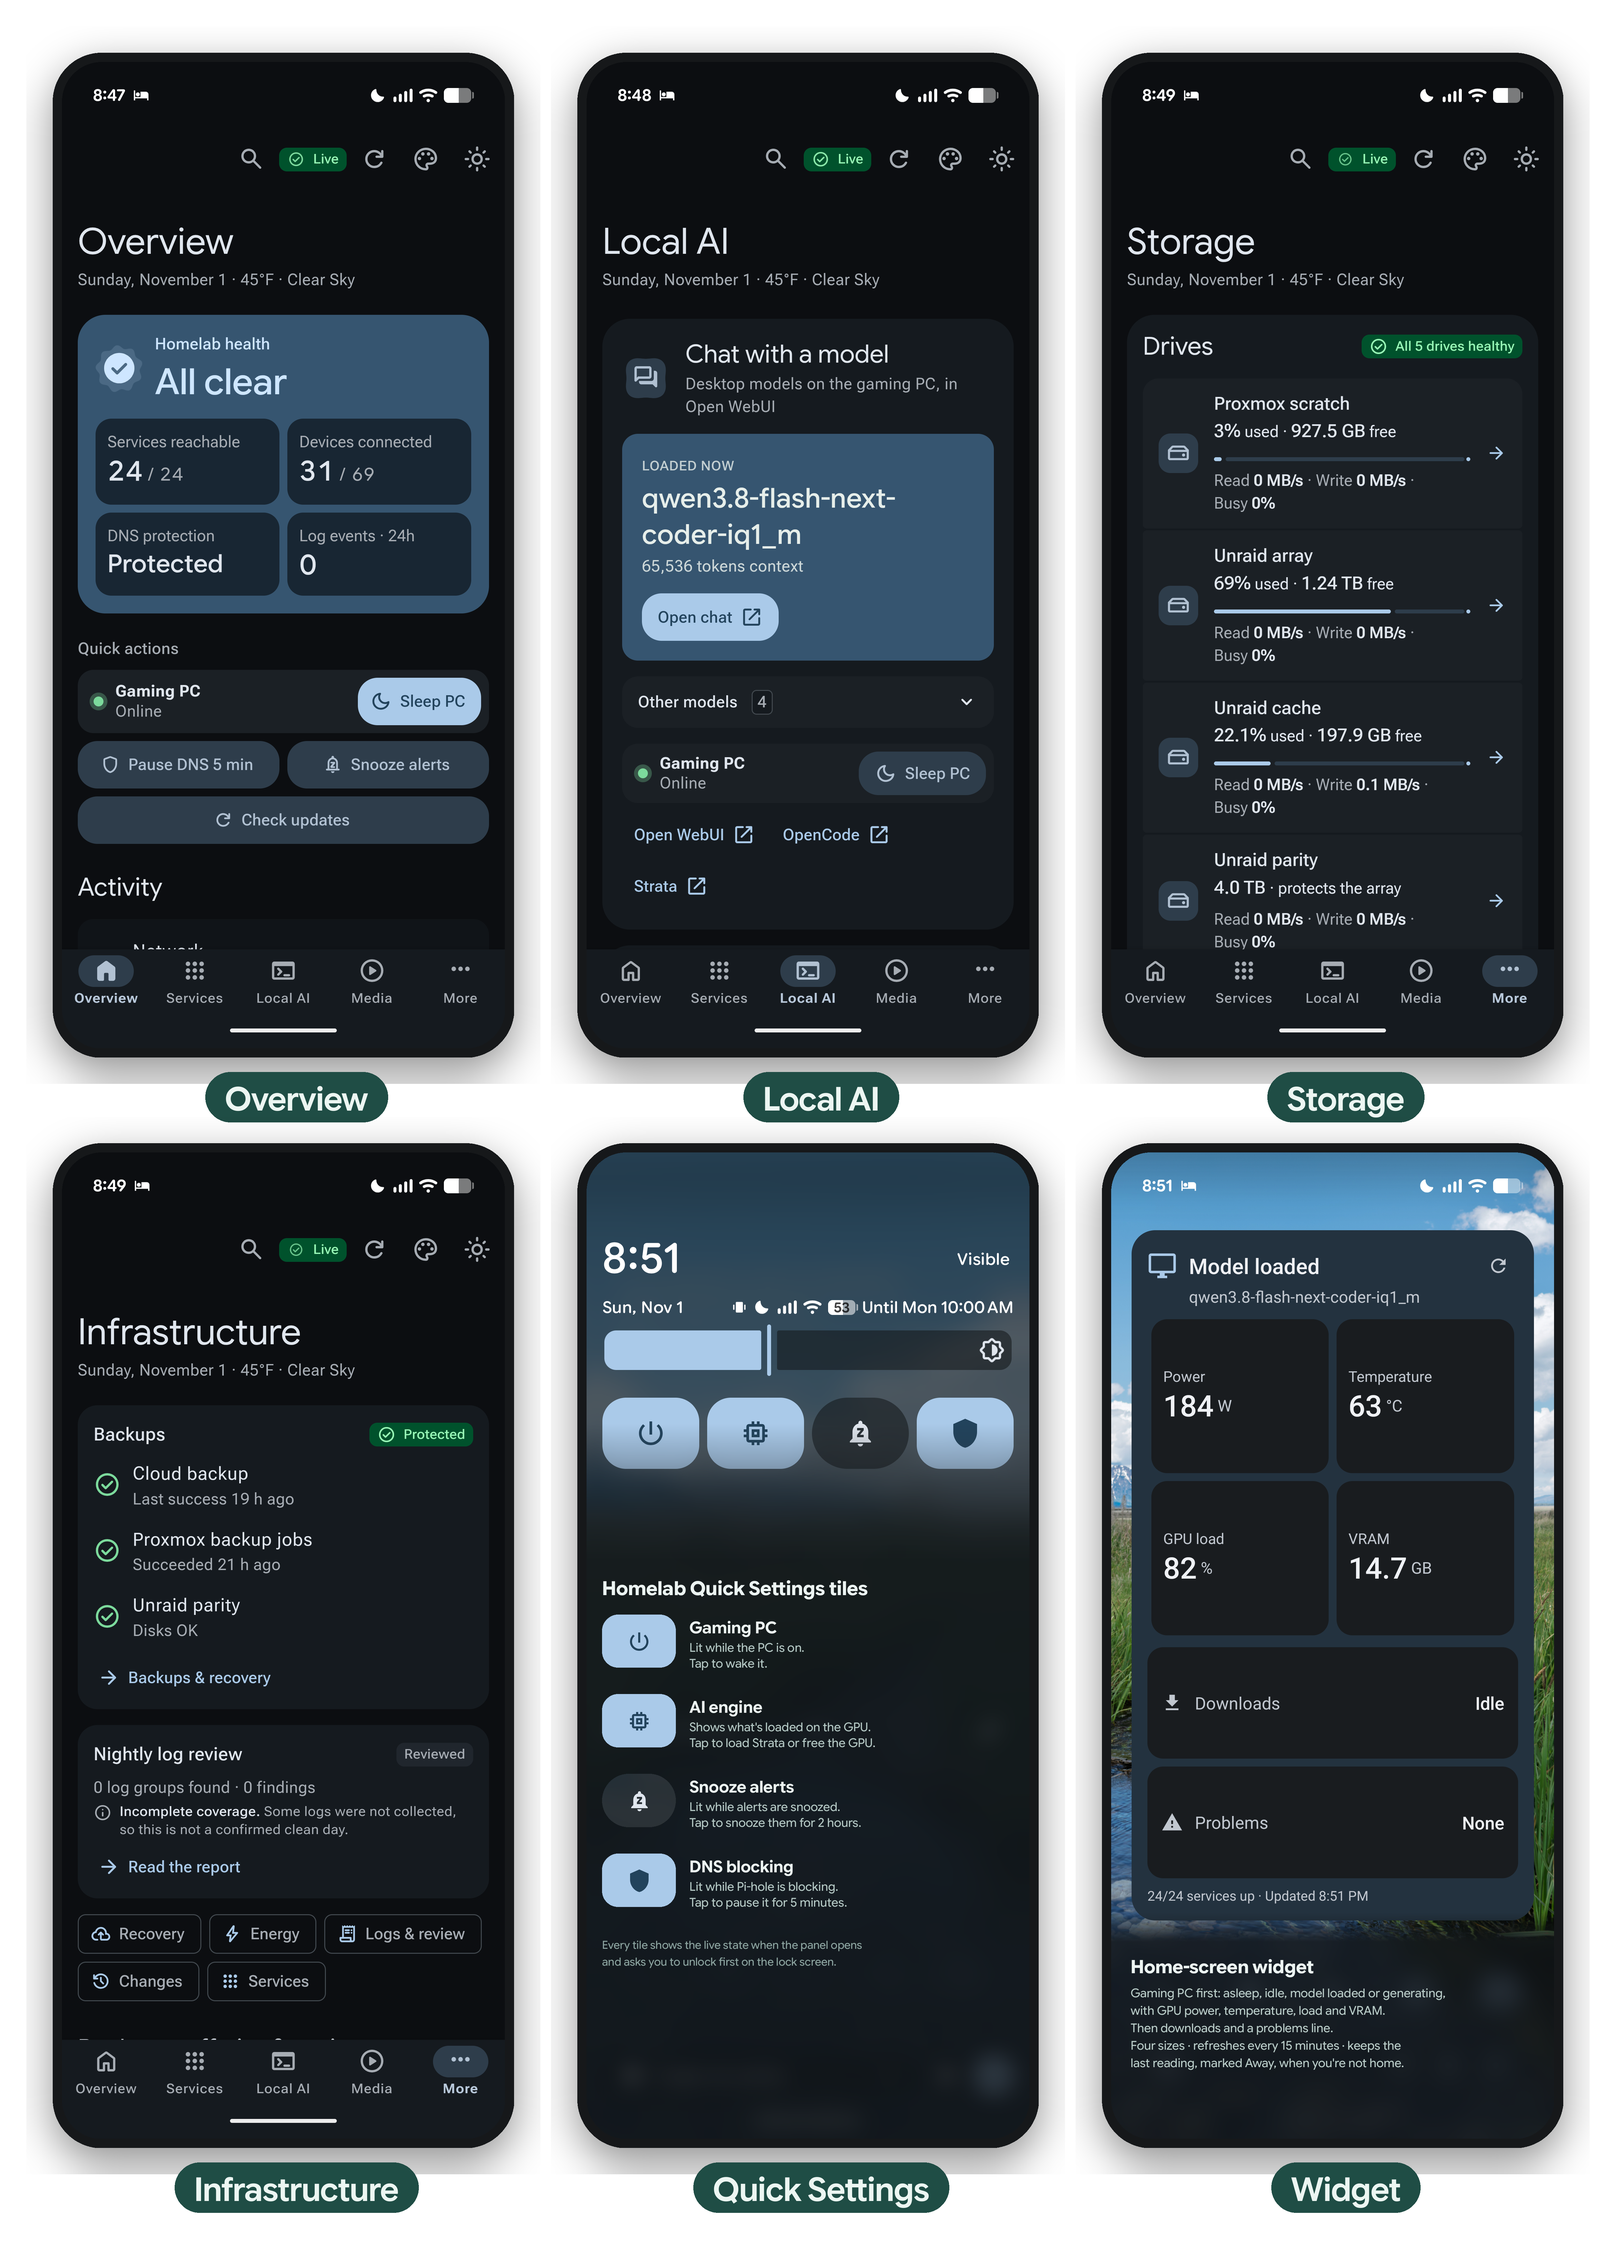
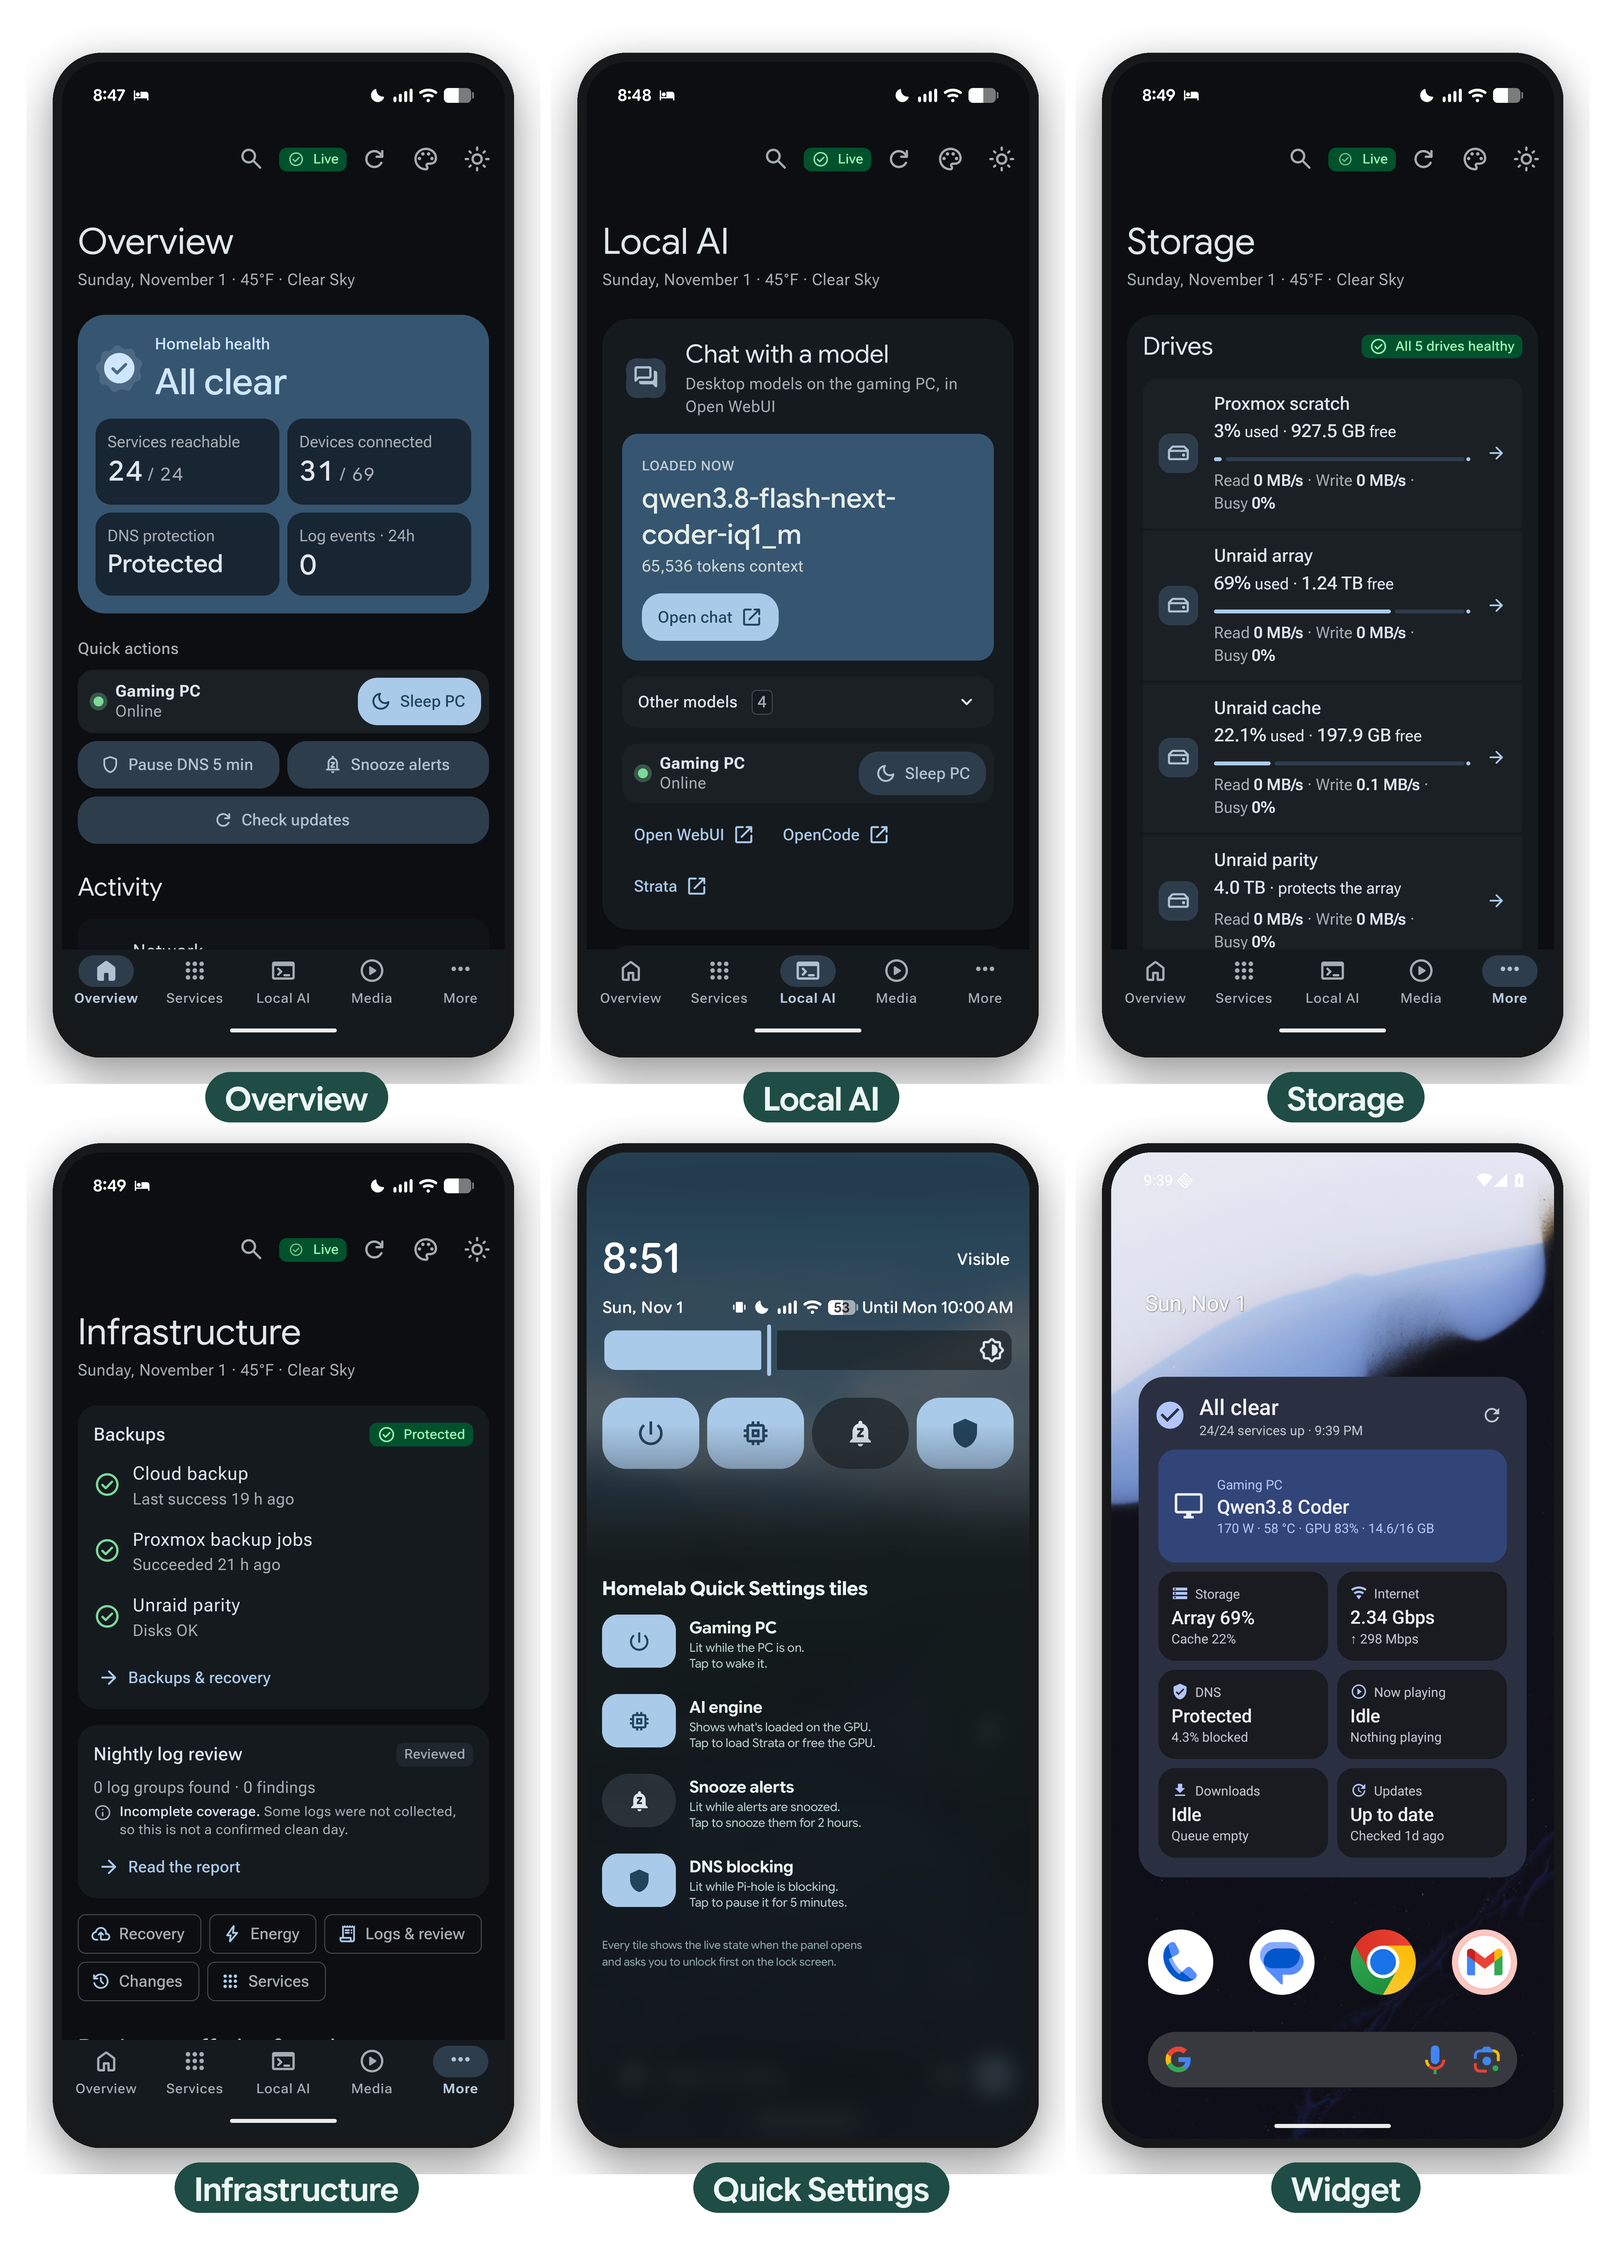
feat(android): v1.10 widget names Qwen3.8 Flash / Coder; gallery shows the new widget

Changed region(s): [[0.6864, 0.4994, 0.9672, 0.9364]]

diff --git a/android/app/src/main/java/lan/homelab/app/ModelNames.java b/android/app/src/main/java/lan/homelab/app/ModelNames.java
@@ -14,6 +14,8 @@ final class ModelNames {
             case "qwen3.8-27b-uncensored": return "Qwen3.8 27B Uncensored";
             case "gemma-4-26b-a4b": return "Gemma 4 26B MoE";
             case "qwen3.6-35b-moe": return "Qwen3.6 35B MoE";
+            case "qwen3.8-flash-next-iq3_xxs": return "Strata · Qwen3.8 Flash IQ3_XXS";
+            case "qwen3.8-flash-next-coder-iq1_m": return "Strata · Qwen3.8 Coder IQ1_M";
             default: break;
         }
         // Strata: swift-1.5-iq3_xxs -> "Strata · Swift 1.5 IQ3_XXS"
@@ -24,5 +26,5 @@ final class ModelNames {
         return id;
     }
 
-    static boolean isStrata(String id) { return id != null && id.startsWith("swift-"); }
+    static boolean isStrata(String id) { return id != null && (id.startsWith("swift-") || id.startsWith("qwen3.8-flash-next")); }
 }

diff --git a/CHANGELOG.md b/CHANGELOG.md
@@ -7,6 +7,7 @@ All notable changes to the Homelab Android app. Versions match `versionName` in 
 ### Changed
 - **Status-first home-screen widget.** The header says *All clear* or names the problems. A Gaming PC card shows the loaded model or state, with GPU power, temperature, load and VRAM only while it is generating or busy. Below it: storage (array and cache), internet speed, DNS blocking, now playing, downloads and pending updates. Every cell opens its page.
 - Three sizes: one-line status, a 2 × 2 summary (PC, storage, internet, DNS), and the full widget.
+- Friendly names for Qwen3.8 Flash and Qwen3.8 Coder.
 
 ## 1.9 — 2026-11-01
 
